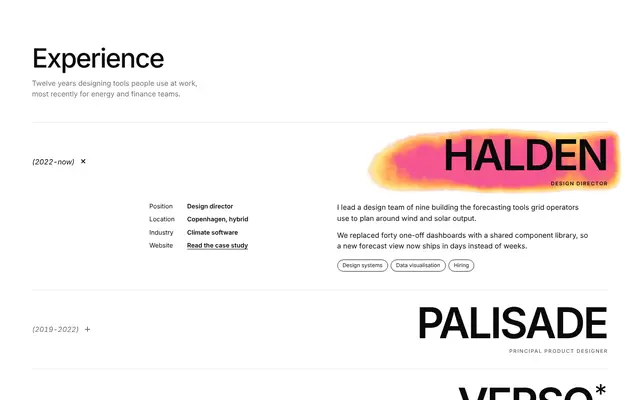
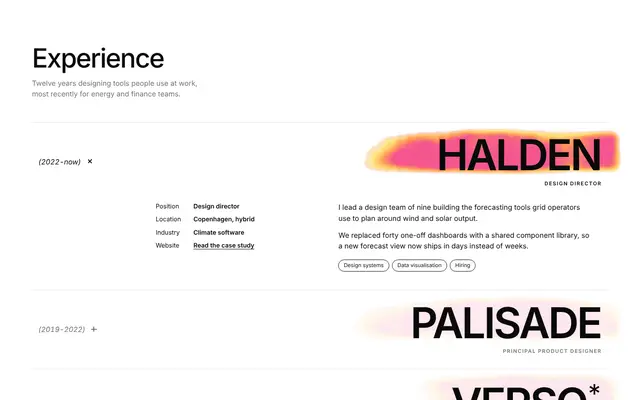
pigment-experience-ledger: round 3 critic fixes, resting residue
Closed rows keep a faint dried stroke so tenure and age read at rest;
eased focal dim; wash hugs the wordmark so small text stays on plain
surface; crisper aged tide line; tighter pointer lean; inset focus ring;
review log with all three rounds.

Claude-Session: https://claude.ai/code/session_01K2RXmtDAVf4WAkWozzyLwK

diff --git a/components/pigment-experience-ledger/pigment-experience-ledger.tsx b/components/pigment-experience-ledger/pigment-experience-ledger.tsx
@@ -70,6 +70,8 @@ export type PigmentExperienceLedgerProps = {
   uppercase?: boolean
   /** Paint tenure and age into the wash: longer roles, longer strokes; older roles, drier pigment. */
   ageing?: boolean
+  /** Opacity of the dried pigment left behind closed rows, 0 to 1. 0 leaves them bare. */
+  residue?: number
   /** Level of the section heading; rows use the next level down. */
   headingLevel?: 2 | 3 | 4
   /** Any CSS length. The section grows past it when rows open. */
@@ -205,6 +207,10 @@ type Smear = {
   nameW: number
   reach: number
   dry: number
+  dim: number
+  dimTarget: number
+  nameTop: number
+  nameH: number
   lastActive: number
   low: Float32Array
   ramp: number[][]
@@ -266,6 +272,10 @@ function newSmear(seed: number): Smear {
     nameW: 0,
     reach: 0.5,
     dry: 0,
+    dim: 1,
+    dimTarget: 1,
+    nameTop: 0,
+    nameH: 0,
     lastActive: 0,
     low: new Float32Array(0),
     ramp: [],
@@ -327,7 +337,7 @@ function sizeSmear(s: Smear, w: number, h: number, headH: number) {
   s.painted = false
 }
 
-function paintSmear(s: Smear, time: number, ramp: number[][], strength: number, dark: boolean) {
+function paintSmear(s: Smear, time: number, ramp: number[][], strength: number, dark: boolean, faint = false) {
   const ctx = s.ctx
   const img = s.img
   if (!ctx || !img || ramp.length < 3) return
@@ -378,9 +388,13 @@ function paintSmear(s: Smear, time: number, ramp: number[][], strength: number, 
     const ye = Math.min(bh - 1, Math.ceil(y1))
     // Contain the wash to its row's header band. The envelope thins the field
     // itself, so the boundary gets the same ragged paper edge as the rest.
-    const top = BLEED / sc
-    const bottom = (BLEED + s.headH - 6) / sc
-    const feather = 36 / sc
+    // The band hugs the wordmark, so the role and the years on a phone sit on
+    // plain surface and small text never lands on pigment.
+    const bandTop = s.nameH ? s.nameTop - s.nameH * 0.3 : 0
+    const bandBottom = s.nameH ? s.nameTop + s.nameH * 1.02 : s.headH - 6
+    const top = (BLEED + Math.max(0, bandTop)) / sc
+    const bottom = (BLEED + bandBottom) / sc
+    const feather = Math.min(36, (bandBottom - bandTop) * 0.4) / sc
     const side = Math.max(s.bleedX - 4, 28) / sc
     for (let y = ys; y <= ye; y++) {
       const env = smoothstep(top, top + feather, y) * (1 - smoothstep(bottom - feather, bottom, y))
@@ -408,14 +422,17 @@ function paintSmear(s: Smear, time: number, ramp: number[][], strength: number, 
         // Pigment collects at the drying edge: a denser, warmer tide line. It moves
         // toward the body colour rather than toward grey, which would read as dirt.
         const rim = smoothstep(0.2, 0.3, fe) * (1 - smoothstep(0.3, 0.5, fe))
-        const depth = clamp(smoothstep(0.3, 1.55, fe) + (s.hue[i] - 0.5) * 0.6 + rim * 0.55, 0, 1)
-        const c = rampAt(edge, body, core, depth)
+        const depth = clamp(smoothstep(0.3, 1.55, fe) + (s.hue[i] - 0.5) * 0.6 + rim * (0.55 + dry * 0.4), 0, 1)
+        // Warm edge colours at low opacity read as brown on a dark surface, so a
+        // faint wash there is painted from the core colour.
+        const c = rampAt(edge, body, core, dark && faint ? 0.7 + depth * 0.3 : depth)
         if (dry > 0 && !dark) {
           const grey = c[0] * 0.3 + c[1] * 0.59 + c[2] * 0.11
-          for (let q = 0; q < 3; q++) c[q] += (grey - c[q]) * dry * 0.55
+          for (let q = 0; q < 3; q++) c[q] += (grey - c[q]) * dry * 0.15
         }
         const g = s.grain[i]
-        const shade = 1 - rim * 0.07 + (g - 0.5) * 0.05
+        // Dried pigment shows as a crisper, darker tide line.
+        const shade = 1 - rim * (0.07 + dry * 0.2) + (g - 0.5) * 0.05
         const a = (wash * (0.86 + 0.14 * depth) + rim * 0.1) * (0.9 + 0.1 * g * (1 + dry)) * fade
         const j = i * 4
         data[j] = c[0] * shade
@@ -453,7 +470,7 @@ function surfaceIsDark(el: HTMLElement | null): boolean {
 /* ---------------------------------------------------------------- styles */
 
 const PEL_CSS = [
-  ".pel-root{position:relative;width:100%;overflow-x:clip;container-type:inline-size;background:var(--pel-bg);color:var(--pel-ink);padding:clamp(3rem,7cqi,6.5rem) clamp(1.25rem,5cqi,5rem);box-sizing:border-box;isolation:isolate;-webkit-font-smoothing:antialiased;--pel-ease:cubic-bezier(.23,1,.32,1)}",
+  ".pel-root{position:relative;width:100%;overflow-x:clip;container-type:inline-size;background:var(--pel-bg);color:var(--pel-ink);padding:clamp(3rem,7cqi,6.5rem) clamp(1.25rem,5cqi,5rem);box-sizing:border-box;isolation:isolate;-webkit-font-smoothing:antialiased;--pel-ease:cubic-bezier(.23,1,.32,1);--pel-pad:clamp(.5rem,1.1cqi,.9rem)}",
   ".pel-root *,.pel-root *::before,.pel-root *::after{box-sizing:border-box}",
   ".pel-wrap{max-width:84rem;margin:0 auto}",
   ".pel-head{position:relative;z-index:1;margin:0 0 clamp(1.75rem,4cqi,3.25rem)}",
@@ -463,8 +480,8 @@ const PEL_CSS = [
   ".pel-row{position:relative;border-bottom:1px solid var(--pel-line)}",
   ".pel-ink{position:absolute;left:-40px;top:-64px;width:calc(100% + 80px);height:calc(100% + 128px);max-width:none;display:block;z-index:0;pointer-events:none}",
   ".pel-h{margin:0;font:inherit;position:relative;z-index:1}",
-  ".pel-trigger{-webkit-appearance:none;appearance:none;background:none;border:0;border-radius:2px;margin:0;padding:clamp(1.1rem,2.3cqi,1.85rem) 0;width:100%;color:inherit;font:inherit;text-align:inherit;cursor:pointer;display:grid;grid-template-columns:minmax(8.5rem,15rem) minmax(0,1fr);align-items:center;column-gap:1.5rem;-webkit-tap-highlight-color:transparent}",
-  ".pel-trigger:focus-visible{outline:2px solid var(--pel-ink);outline-offset:6px;border-radius:4px}",
+  ".pel-trigger{-webkit-appearance:none;appearance:none;background:none;border:0;border-radius:2px;margin:0;padding:clamp(1.1rem,2.3cqi,1.85rem) var(--pel-pad);width:100%;color:inherit;font:inherit;text-align:inherit;cursor:pointer;display:grid;grid-template-columns:minmax(8.5rem,15rem) minmax(0,1fr);align-items:center;column-gap:1.5rem;-webkit-tap-highlight-color:transparent}",
+  ".pel-trigger:focus-visible{outline:2px solid var(--pel-ink);outline-offset:-2px;border-radius:4px}",
   ".pel-when{display:flex;align-items:center;gap:.85rem;font-style:italic;font-size:clamp(.92rem,1.25cqi,1.06rem);letter-spacing:-.01em;color:var(--pel-muted);font-variant-numeric:tabular-nums;transition:color .2s ease,transform .3s var(--pel-ease)}",
   ".pel-x{position:relative;display:block;width:.78rem;height:.78rem;flex:none;font-style:normal;transition:transform .34s var(--pel-ease)}",
   ".pel-x::before,.pel-x::after{content:'';position:absolute;left:0;top:50%;width:100%;height:1.5px;margin-top:-.75px;background:currentColor;border-radius:1px}",
@@ -482,7 +499,7 @@ const PEL_CSS = [
   ".pel-panel{display:grid;grid-template-rows:0fr;position:relative;z-index:1;transition:grid-template-rows .2s var(--pel-ease)}",
   ".pel-row[data-open='true'] .pel-panel{grid-template-rows:1fr;transition-duration:.32s}",
   ".pel-clip{overflow:hidden;min-height:0}",
-  ".pel-body{display:grid;grid-template-columns:minmax(8.5rem,15rem) minmax(0,.85fr) minmax(0,1.3fr);column-gap:1.5rem;row-gap:1.25rem;padding:.15rem 0 clamp(1.6rem,3.2cqi,2.6rem);opacity:0;transform:translateY(-6px);transition:opacity .14s ease,transform .22s var(--pel-ease)}",
+  ".pel-body{display:grid;grid-template-columns:minmax(8.5rem,15rem) minmax(0,.85fr) minmax(0,1.3fr);column-gap:1.5rem;row-gap:1.25rem;padding:.15rem var(--pel-pad) clamp(1.6rem,3.2cqi,2.6rem);opacity:0;transform:translateY(-6px);transition:opacity .14s ease,transform .22s var(--pel-ease)}",
   ".pel-row[data-open='true'] .pel-body{opacity:1;transform:none;transition:opacity .28s ease .06s,transform .32s var(--pel-ease) .03s}",
   ".pel-meta{grid-column:2;margin:0;display:grid;grid-template-columns:auto minmax(0,1fr);column-gap:1.75rem;row-gap:.6rem;align-content:start;font-size:.875rem;line-height:1.4}",
   ".pel-label{color:var(--pel-muted);transition:color .3s ease}",
@@ -596,6 +613,7 @@ export default function PigmentExperienceLedger({
   labels,
   uppercase = true,
   ageing = true,
+  residue = 0.2,
   headingLevel = 2,
   minHeight = "100svh",
   background,
@@ -648,6 +666,8 @@ export default function PigmentExperienceLedger({
         const prevX = s.cx
         const prevY = s.cy
         if (st.reduced) {
+          if (s.dim !== s.dimTarget) s.painted = false
+          s.dim = s.dimTarget
           s.level = s.target
           s.cx = s.tx
           s.cy = s.ty
@@ -655,6 +675,10 @@ export default function PigmentExperienceLedger({
           const tau = s.target > s.level ? 0.3 : 0.2
           s.level += (s.target - s.level) * (1 - Math.exp(-dt / tau))
           if (Math.abs(s.target - s.level) < 0.002) s.level = s.target
+          const prevDim = s.dim
+          s.dim += (s.dimTarget - s.dim) * (1 - Math.exp(-dt / 0.2))
+          if (Math.abs(s.dimTarget - s.dim) < 0.002) s.dim = s.dimTarget
+          if (s.dim !== prevDim) s.painted = false
           const k = 1 - Math.exp(-dt / 0.26)
           s.cx += (s.tx - s.cx) * k
           s.cy += (s.ty - s.cy) * k
@@ -669,7 +693,7 @@ export default function PigmentExperienceLedger({
         if (active) alive = true
         if (active || s.painted) {
           if (changed || !s.painted || (breathes && st.frame % 2 === 0) || !active)
-            paintSmear(s, st.clock, s.ramp, st.dark ? Math.min(1, strength * 1.1) : strength, st.dark)
+            paintSmear(s, st.clock, s.ramp, (st.dark ? Math.min(1, strength * 1.1) : strength) * s.dim, st.dark, s.dim < 0.6)
         }
       }
       if (breathing) st.clock += dt
@@ -678,7 +702,7 @@ export default function PigmentExperienceLedger({
       else st.last = 0
     }
     st.raf = requestAnimationFrame(tick)
-  }, [strength])
+  }, [strength, residue])
 
   // Pigment colours follow the preset, each row's own colours and the surface.
   // On a dark page the palest stop leans toward the body colour (pale yellow
@@ -724,15 +748,21 @@ export default function PigmentExperienceLedger({
       const s = ensureSmear(i)
       const pointed = i === hovered || i === focused
       const elsewhere = (hovered !== null && hovered !== i) || (focused !== null && focused !== i)
-      // One focal point: the open row's wash steps back while another row is pointed at.
-      const next = pointed ? 1 : i === openIndex ? (elsewhere ? 0.3 : 1) : 0
-      if (next !== s.target) s.lastActive = performance.now()
+      // One focal point: the open row's wash steps back while another row is
+      // pointed at. Closed rows keep a faint dried residue whose length and
+      // dryness show the history at rest; pointing at one rewets it.
+      const open = i === openIndex
+      const rest = Math.min(0.5, residue * (0.55 + s.dry * 0.75))
+      const next = pointed || open ? 1 : residue > 0 ? 0.75 : 0
+      const dim = pointed ? 1 : open ? (elsewhere ? 0.22 : 1) : rest
+      if (next !== s.target || dim !== s.dimTarget) s.lastActive = performance.now()
       s.target = next
+      s.dimTarget = dim
       if (!s.pointer) [s.tx, s.ty] = homeOf(s)
     })
     kick()
     // eslint-disable-next-line react-hooks/exhaustive-deps
-  }, [openIndex, hovered, focused, items.length, kick])
+  }, [openIndex, hovered, focused, items.length, residue, rampKey, kick])
 
   // Row sizes feed the pigment buffers; the root width refits the wordmarks.
   // Keyed on the names, so a parent passing an inline array doesn't refit every render.
@@ -761,7 +791,9 @@ export default function PigmentExperienceLedger({
         const lr = li.getBoundingClientRect()
         const nr = nm.getBoundingClientRect()
         s.homeX = nr.left - lr.left + nr.width / 2
-        s.homeY = nr.top - lr.top + nr.height * 0.6
+        s.nameTop = nr.top - lr.top
+        s.nameH = nr.height
+        s.homeY = s.nameTop + nr.height * 0.5
         s.nameW = nr.width
       }
       if (first || !s.pointer) {
@@ -833,6 +865,10 @@ export default function PigmentExperienceLedger({
   }, [])
 
   const toggle = (i: number) => {
+    // A click hands the wash back to its wordmark.
+    const s = ensureSmear(i)
+    s.pointer = false
+    ;[s.tx, s.ty] = homeOf(s)
     const next = nextOpen(openIndex, i)
     if (!controlled) setInner(next)
     onToggle?.(next)
@@ -848,9 +884,11 @@ export default function PigmentExperienceLedger({
     const hx = homeOf(s)[0]
     const w = s.nameW || s.cssW * 0.3
     // Lean toward the pointer, but stay on the wordmark.
-    s.tx = clamp(hx + (e.clientX - r.left + s.bleedX - hx) * 0.35, hx - w * 0.35, hx + w * 0.15)
+    s.tx = clamp(hx + (e.clientX - r.left + s.bleedX - hx) * 0.35, hx - w * 0.18, hx + w * 0.12)
     s.lastActive = performance.now()
-    s.ty = BLEED + clamp(e.clientY - r.top, s.headH * 0.35, s.headH * 0.7)
+    const y0 = s.nameH ? s.nameTop + s.nameH * 0.3 : s.headH * 0.35
+    const y1 = s.nameH ? s.nameTop + s.nameH * 0.7 : s.headH * 0.7
+    s.ty = BLEED + clamp(e.clientY - r.top, y0, y1)
     // A fresh bloom starts where the pointer came in.
     if (s.level < 0.05) {
       s.cx = s.tx

diff --git a/media/pigment-experience-ledger/review.md b/media/pigment-experience-ledger/review.md
@@ -77,3 +77,37 @@ Added for originality: the wash is drawn from the work history. A longer tenure
 paints a longer stroke (`reachOf`), and older roles have drier, paler, grainier
 pigment (`drynessOf`, with granulation only on dark surfaces). Turn it off with
 `ageing={false}`.
+
+## Round 3 (final): REDO (average 7.4)
+
+| | Score |
+|---|---|
+| Usability | 8 |
+| Idea | 7 |
+| Craft | 7 |
+| Originality | 6 |
+| Install-safety | 9 |
+
+The critic's verdict: the generated art is good enough ("the dark grain and ragged
+edges look like real pigment"), but with every row closed the section is a plain list
+of words, and the history-drawn wash is invisible on the first frame.
+
+The brief allows three critic rounds, so this is the final score and the piece goes
+to `claude/review-pigment-experience-ledger`. The round-3 list was still worked
+through afterwards. These changes have not been re-scored:
+1. The focal step-back now dims through its own eased `dim` (0.22), not through `level`.
+2. The wash hugs the wordmark (band from name top to baseline), so the role and the
+   years on a phone always sit on plain surface.
+3. Age shows as a crisper, darker tide line with granulation. Greying dropped from 0.55 to 0.15.
+4. Closed rows keep a faint dried residue (`residue`, default 0.2). Stroke length
+   (tenure) and dryness (age) now read at rest. Pointing at a row rewets it, and the
+   loop still sleeps. On dark, the faint residue is painted from the core colour, so
+   it reads as wine rather than rust.
+5. Pointer lean clamp tightened to -0.18 / +0.12 of the wordmark, and a click hands
+   the wash back to its wordmark.
+6. Focus ring inset (`outline-offset:-2px`), with the rows given a small inner padding.
+7. Screenshots now include Bramble hovered in demo-tide (its own red colours), and the
+   light hover shot has the row fully in view.
+
+Final checks: `npm run check` exit 0, `npm test` 124/124, and
+`node tests/pigment-experience-ledger.test.mjs` ok.

diff --git a/components/pigment-experience-ledger/README.md b/components/pigment-experience-ledger/README.md
@@ -47,6 +47,7 @@ import PigmentExperienceLedger from "@/components/ui/pigment-experience-ledger"
 | `palette` | `"ember"` | `"ember"` (pink, orange, yellow), `"tide"`, `"moss"`, `"mono"` |
 | `colors` | | Your own pigment as `[core, body, edge]` hex values. Overrides `palette` |
 | `strength` | `0.82` | Peak pigment opacity, 0 to 1 |
+| `residue` | `0.2` | Opacity of the dried pigment left behind closed rows, so the history shows at rest. `0` leaves closed rows bare |
 | `ageing` | `true` | Stroke length follows tenure and pigment dries with age. Reads `years` as `"2019-2022"`, `"2022-now"` or `"2021"` |
 | `defaultOpen` | `0` | Row open on first render. `null` starts with every row closed |
 | `open` / `onToggle` | | Controlled mode. `onToggle(index \| null)` |
@@ -65,8 +66,10 @@ import PigmentExperienceLedger from "@/components/ui/pigment-experience-ledger"
 - Long names shrink to fit their column, so a wordmark never wraps or clips.
   Below 640 px of container width, the year moves above the name and the open
   row stacks.
-- The wash sits behind the wordmark and stays in the row's header band, so the
-  open row's body copy is always on clean paper. When another row is pointed
+- Closed rows keep a faint dried residue of their stroke, so tenure and age
+  read at a glance before anyone points at anything. Pointing at a row rewets it.
+- The wash hugs the wordmark, so the role, the years and the open row's body
+  copy always sit on clean paper. When another row is pointed
   at, the open row's wash steps back so there is one focal point.
 - The wash follows the surface it sits on. On a dark background it drops its
   palest colour and caps its opacity, so light text on top stays readable.
